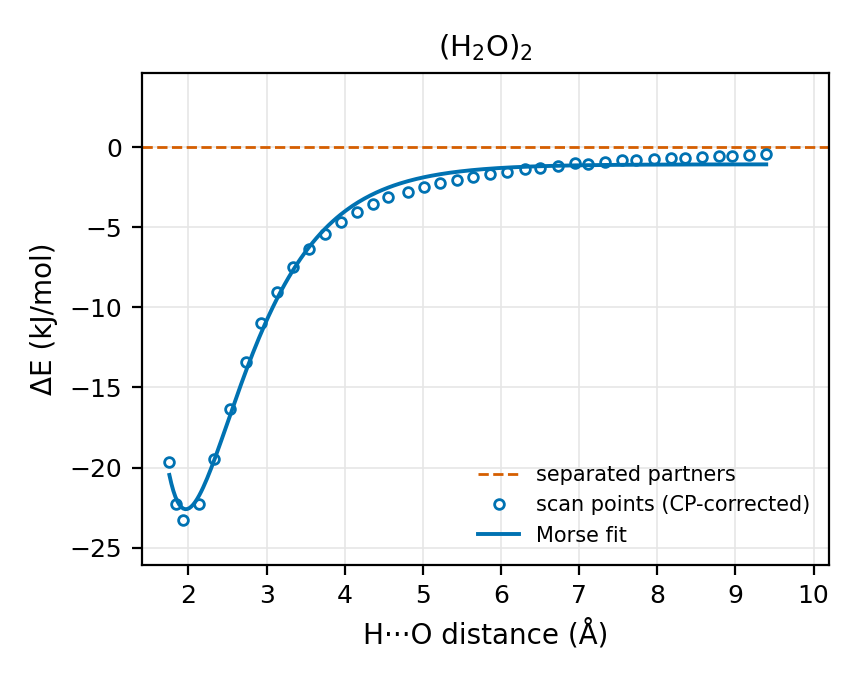
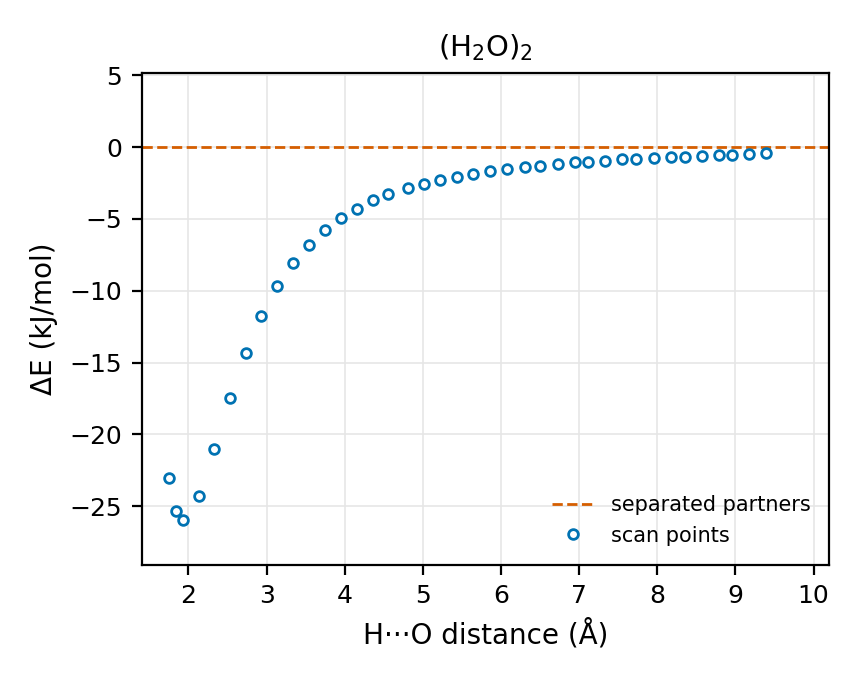
Chapter 68 (hydrogen bond): interaction curve restored, uncorrected
- New section "Interaction curve" with figure 68.1 (relaxed O1...O4 scan
  drawn against H2...O4, plain scan energies, no counterpoise, no Morse
  line) and a four-point table (1.93 A -25.9, 2.93 A -11.8, 5.01 A -2.5,
  9.39 A -0.4 kJ/mol).
- The lowest scan point is the optimised dimer itself (same energy,
  -152.862864 hartree), so the curve's 25.9 kJ/mol is the 26 kJ/mol of the
  energy section; the text says so.
- The section states its point: steep inner wall, more than half the
  attraction gone 1 A out, only 2 RT left 2 A out, so the bond acts between
  neighbours in contact. Procedure step for the scan; In class order
  includes the curve.
- MANIFEST row updated.

Claude-Session: https://claude.ai/code/session_01LPtdCqiFHmFNbScUSGgzbs

diff --git a/chapters/teaching-hydrogen-bond.tex b/chapters/teaching-hydrogen-bond.tex
@@ -9,7 +9,7 @@
 
 \helppage{electron-density-views}
 
-The hydrogen bond is usually drawn as a dotted line between a hydrogen atom and an oxygen or nitrogen atom of another molecule. This chapter gives the teacher pictures and numbers to show a class what that line stands for, all taken from two stored calculations of the General Chemistry example set: the water dimer, the smallest case of the bond, and the single water molecule. Each section takes one sign of the bond that students meet in a course, namely the energy that holds the pair together, the short distance between the molecules and the longer O--H bond of the donor, the lower and stronger O--H stretch in the infrared spectrum, and the electron density between the molecules, and names the ECCE panel that shows it and the chemical point it makes.
+The hydrogen bond is usually drawn as a dotted line between a hydrogen atom and an oxygen or nitrogen atom of another molecule. This chapter gives the teacher pictures and numbers to show a class what that line stands for, all taken from two stored calculations of the General Chemistry example set: the water dimer, the smallest case of the bond, and the single water molecule. Each section takes one sign of the bond that students meet in a course, namely the energy that holds the pair together and how quickly it falls off as the molecules move apart, the short distance between the molecules and the longer O--H bond of the donor, the lower and stronger O--H stretch in the infrared spectrum, and the electron density between the molecules, and names the ECCE panel that shows it and the chemical point it makes.
 
 \section*{This requires}
 Nothing beyond ECCE: the calculations are in the General Chemistry example set.
@@ -27,6 +27,7 @@ The steps show where in ECCE each number and picture of this chapter comes from;
 \begin{enumerate}
 	\item In the Organizer, choose \menu{File > Open Example Calculations}, pick \menu{General Chemistry} and click \menu{OK}.
 	\item In \menu{Examples > Intermolecular interactions}, select \emph{h2o\_dimer} and \emph{h2o\_monomer} and compare their total energies in the Organizer's table, or with \menu{Tools > Energy Calculator...}: dimer minus twice the monomer.
+	\item For the interaction curve, start a relaxed scan of the distance O1--O4 from \emph{h2o\_dimer} (Chapter~\ref{ch:scans}); the scan is not part of the example set.
 	\item Open \emph{h2o\_dimer} in the Viewer. With \menu{Measure} (Chapter~\ref{ch:first-calculation}), measure the distances O1--O4, H2--O4 and O1--H2, and the angle O1--H2--O4. Measure O--H in \emph{h2o\_monomer} too.
 	\item Open \menu{Properties > Vibrational spectra > Vibrational Frequencies} in both and compare the O--H stretches above 3000~cm$^{-1}$, with their IR intensities.
 	\item In the dimer, click \menu{Density Map}, choose the plane \menu{Through three atoms A, B, C} with O1, H2 and O4, and \menu{Show: Total density}. Click \menu{Density Profile} for the same density along the line from O1 to O4.
@@ -36,6 +37,35 @@ The steps show where in ECCE each number and picture of this chapter comes from;
 
 \section{Interaction energy}
 The first question for a class is whether the two molecules hold together at all, and how strongly. The dimer is \SI{26}{kJ.mol^{-1}} lower in energy than two separate molecules ($-152.862864$ against $2\times-76.426490$~hartree, the unit in which ECCE lists these energies; one hartree is \SI{2625.5}{kJ.mol^{-1}}). That is the energy it takes to pull the pair apart, the strength of this one hydrogen bond. It is about ten times $RT$ at room temperature (\SI{2.5}{kJ.mol^{-1}}), the typical energy that molecules exchange in collisions, because the positive end of the donor's O--H dipole sits right against the negative region of the acceptor oxygen. Hence a hydrogen bond survives many collisions before it breaks, which is why the molecules of liquid water stay held by their neighbours, while the bond is still weak enough to break and form again all the time.
+
+\section{Interaction curve}
+The binding energy is the depth of the attraction at one distance, and the interaction curve (figure~\ref{fig:hb-curve}) shows how much of it is left as the two molecules are pulled apart, which tells a class over what distance a hydrogen bond acts. The curve is a relaxed scan of the O1$\cdots$O4 distance (Chapter~\ref{ch:scans}): ECCE held that distance fixed at a series of values out to about \SI{10}{\angstrom} and optimised everything else at each one. Each point is drawn against the H2$\cdots$O4 distance of its own structure, the length of the hydrogen bond itself, and its energy is relative to two water molecules calculated separately. The lowest point, at H$\cdots$O \SI{1.93}{\angstrom}, is the optimised dimer itself, so its depth of \SI{25.9}{kJ.mol^{-1}} is the binding energy of the previous section.
+
+Pushing the molecules \SI{0.17}{\angstrom} closer than the minimum raises the energy by \SI{2.9}{kJ.mol^{-1}}, while \SI{1}{\angstrom} further out less than half of the attraction is left, and at \SI{5}{\angstrom} only a tenth (table~\ref{tab:hb-curve}). The steep inner wall shows that the molecules cannot be pressed much closer, because their electron clouds start to repel each other, and the quick loss of energy outward shows that the hydrogen bond acts between neighbours in contact. Hence in liquid water each molecule is held by the few neighbours its O--H groups point at: \SI{2}{\angstrom} beyond the minimum the pair keeps \SI{5.0}{kJ.mol^{-1}}, only twice $RT$, and collisions break it apart easily.
+\index{Relaxed scan!interaction curves}
+
+\begin{figure}[htbp]
+	\centering
+	\includegraphics[width=0.6\linewidth]{hydrogen-bond/hydrogen-bond-curve.ecce-9.5.3-dev.png}
+	\caption{Energy of the water dimer against the H2$\cdots$O4 distance, from a relaxed scan of the O1$\cdots$O4 distance in ECCE. Zero (dashed) is two water molecules calculated separately. The two most compressed points of the scan, where the O1--H2$\cdots$O4 line bends by more than \ang{30} and H2$\cdots$O4 no longer measures the bond, are left out.}
+	\label{fig:hb-curve}
+\end{figure}
+
+\begin{table}[htbp]
+	\centering
+	\caption{Points of the curve in figure~\ref{fig:hb-curve}: energy of the dimer relative to two separate water molecules at four H$\cdots$O distances.}
+	\label{tab:hb-curve}
+	\begin{tabular}{rr}
+		\toprule
+		H$\cdots$O (\AA) & $\Delta E$ (kJ/mol) \\
+		\midrule
+		1.93 & $-25.9$ \\
+		2.93 & $-11.8$ \\
+		5.01 & $-2.5$ \\
+		9.39 & $-0.4$ \\
+		\bottomrule
+	\end{tabular}
+\end{table}
 
 \section{Geometry}
 The bond also shows in the structure, measured with \menu{Measure}. O1--O4 is \SI{2.90}{\angstrom} and H2--O4 \SI{1.93}{\angstrom}, well inside the sum of the van der Waals radii of H and O (about \SI{2.7}{\angstrom}), the distance at which an H atom and an O atom of two molecules touch without any bond between them. The angle O1--H2--O4 is \ang{172.6}, nearly linear. The donor's O1--H2 bond is \SI{0.971}{\angstrom}, \SI{0.008}{\angstrom} longer than O--H in the single molecule (\SI{0.963}{\angstrom}).
@@ -81,7 +111,7 @@ In the water dimer the only surface is a small disc between H2 and O4, across th
 \end{figure}
 
 \section{In class}
-Show the evidence in the order energy, distance, infrared, density: each is one more piece of evidence for the same bond, and the first three can be measured in a laboratory. The density map is the place to ask what the dotted line in the textbook stands for. It is not a line of electrons; the molecules stay separate, and what the map shows is a small extra amount of density between H and O on top of the overlap of two molecules. The NCI surface then puts the bond in one place, the blue disc between H2 and O4.
+Show the evidence in the order energy, curve, distance, infrared, density: each is one more piece of evidence for the same bond, and the energy, the distance and the infrared band can be measured in a laboratory. The density map is the place to ask what the dotted line in the textbook stands for. It is not a line of electrons; the molecules stay separate, and what the map shows is a small extra amount of density between H and O on top of the overlap of two molecules. The NCI surface then puts the bond in one place, the blue disc between H2 and O4.
 
 \section{History}
 For a class, the origin of the idea shows that the hydrogen bond was proposed to explain the properties of water, the same properties the Background starts from. Latimer and Rodebush proposed in 1920 that a hydrogen atom held between two strongly electronegative atoms could bind them, to explain the properties of water and of hydrogen fluoride \cite{latimer1920}. Pauling made the hydrogen bond a part of structural chemistry in the 1930s, and it became central to biochemistry when it was shown to hold the base pairs of DNA and the helices and sheets of proteins together.
